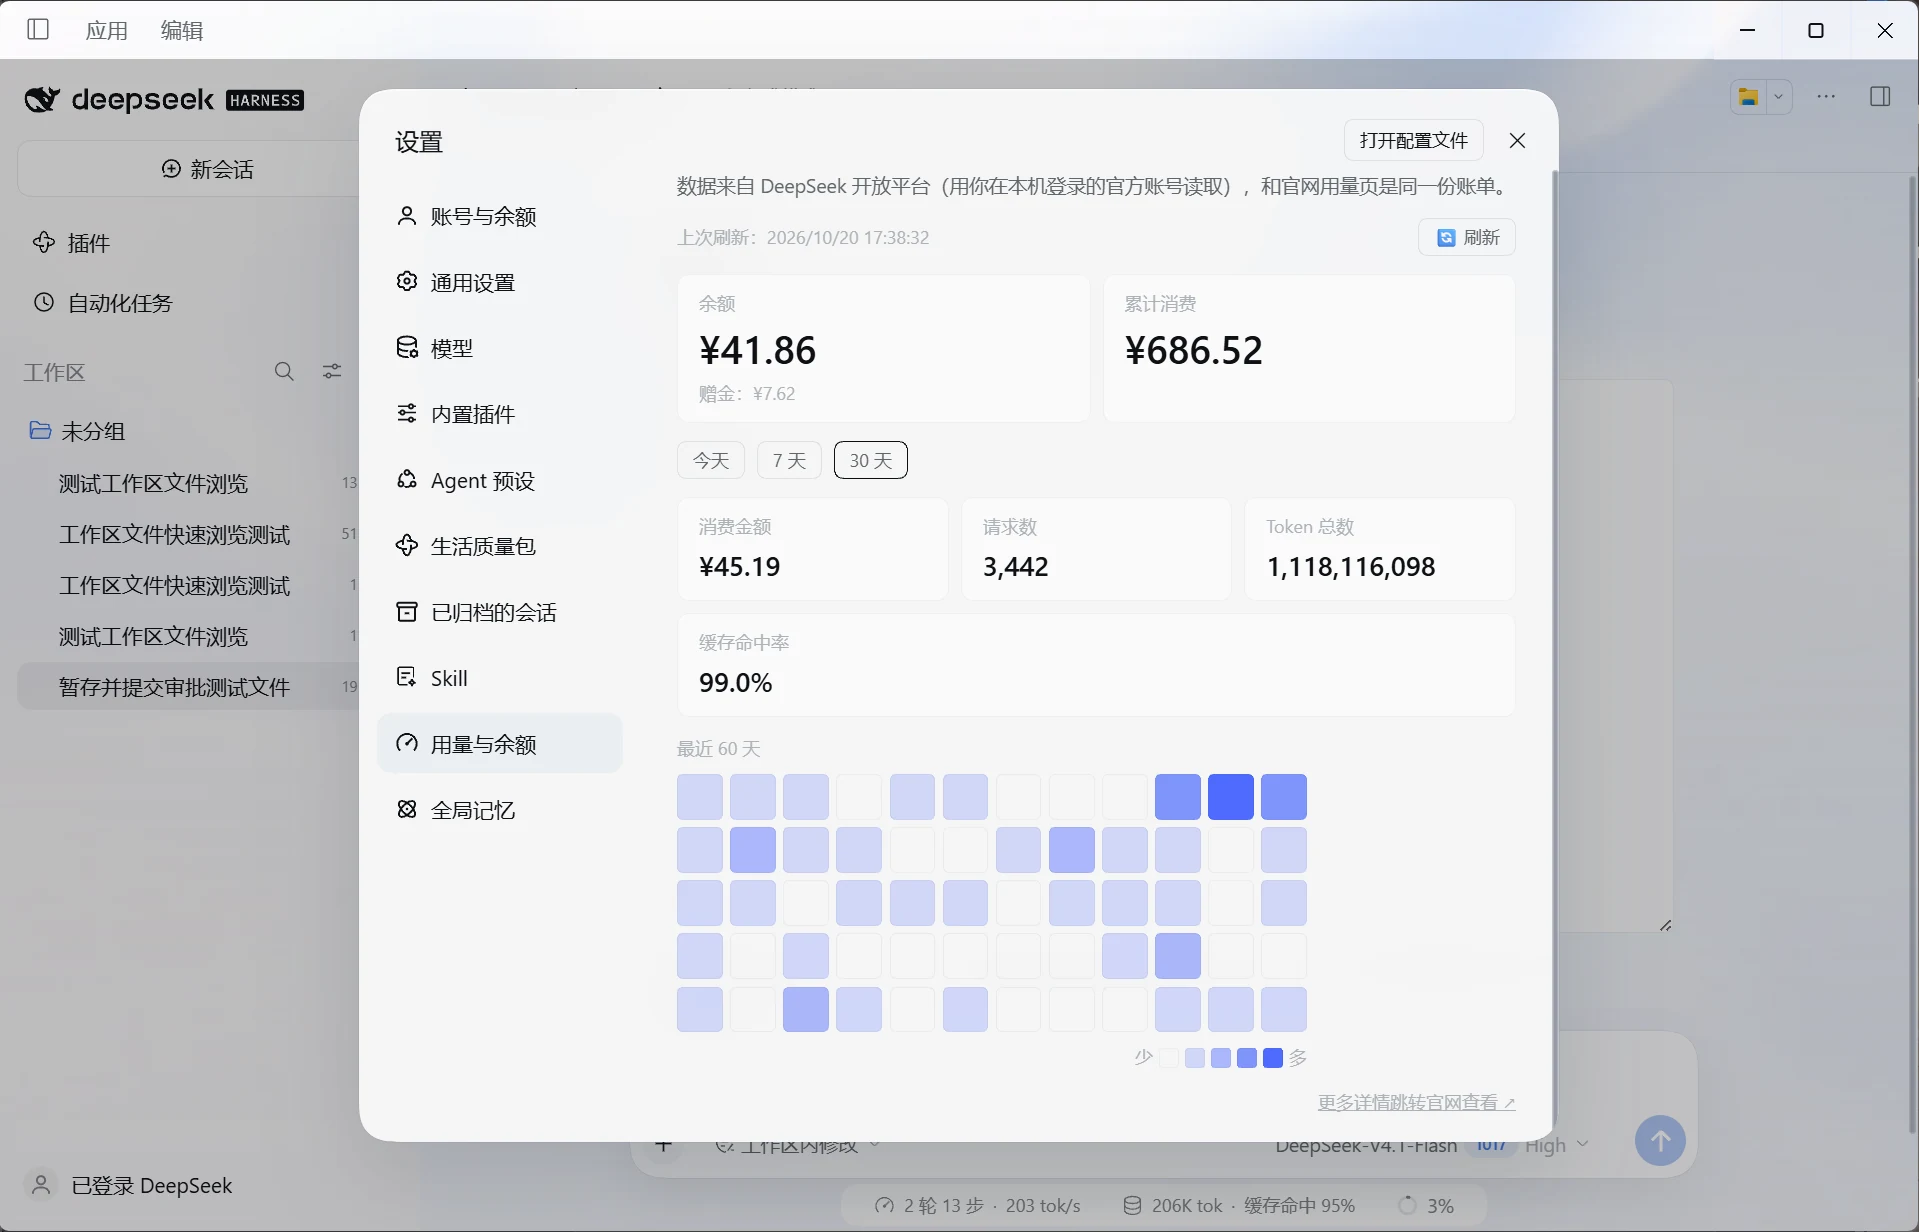
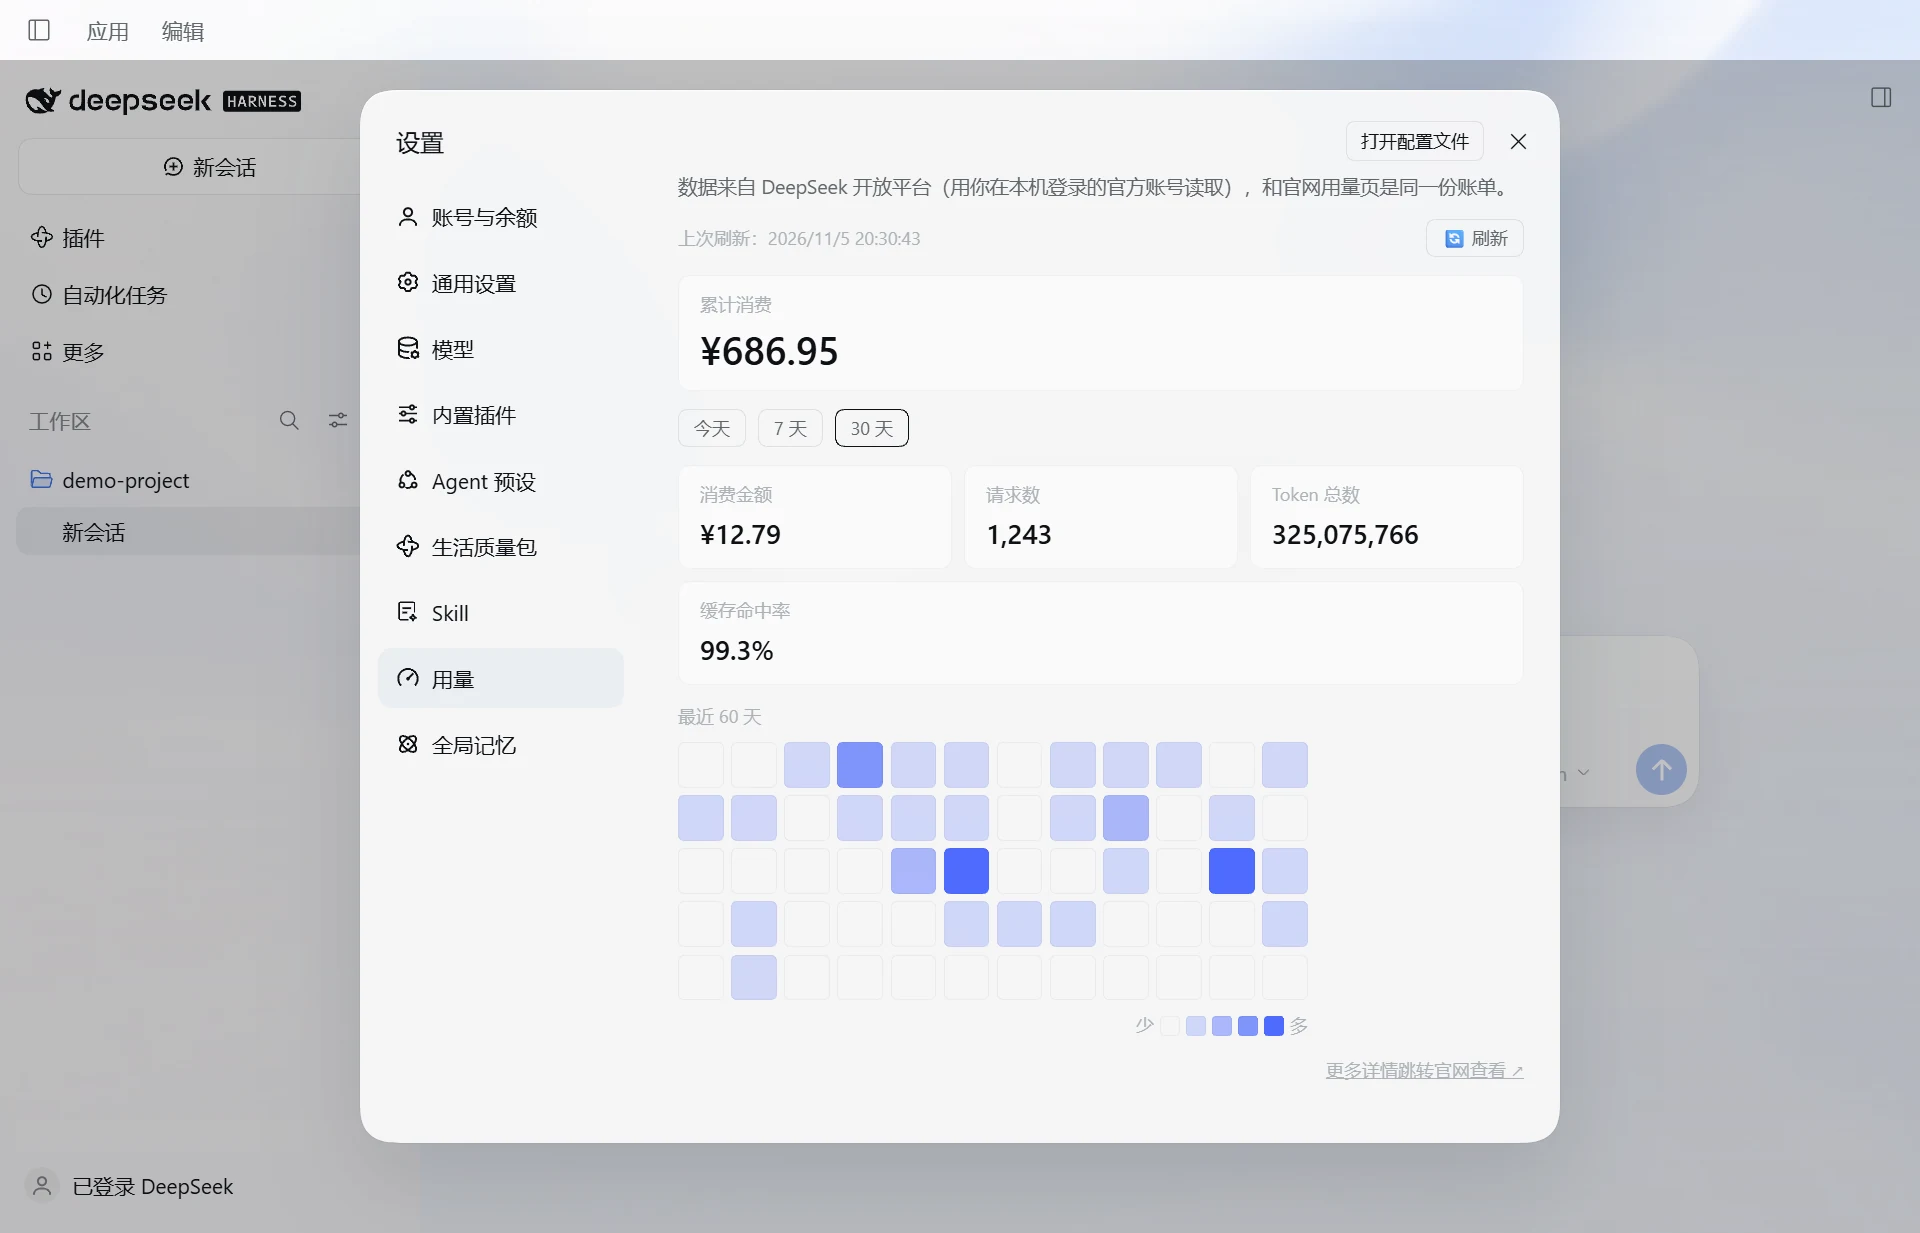
1.1.0：应用内更新，下架与官方重复的功能

diff --git a/lib/client.js b/lib/client.js
@@ -5033,7 +5033,7 @@ function installSettingsIcons(ctx) {
 }
 
 // src/client/update/updater.ts
-var RUNNING_VERSION = "1.0.1";
+var RUNNING_VERSION = "1.1.0";
 var PACKAGE = "@see-sol-lab/dsh-qol";
 var LATEST_URL = "https://api.github.com/repos/See-Sol-Lab/DSH-QoL/releases/latest";
 var RELEASE_PREFIX = "https://github.com/See-Sol-Lab/DSH-QoL/releases/download/";

diff --git a/README.md b/README.md
@@ -7,7 +7,7 @@
 
 <p align="center">
   <a href="LICENSE"><img src="https://img.shields.io/badge/License-MIT-blue?style=flat-square" alt="MIT"></a>
-  <img src="https://img.shields.io/badge/DeepSeek%20Harness-0.2.1-4d6bfe?style=flat-square" alt="DeepSeek Harness 0.2.1">
+  <img src="https://img.shields.io/badge/DeepSeek%20Harness-0.2.2-4d6bfe?style=flat-square" alt="DeepSeek Harness 0.2.2">
   <img src="https://img.shields.io/badge/Platform-Windows-0078d4?style=flat-square" alt="Windows">
   <img src="https://img.shields.io/badge/DSH-Plugin-8b5cf6?style=flat-square" alt="DSH plugin">
   <a href="https://doi.org/10.5281/zenodo.23600993"><img src="https://img.shields.io/badge/DOI-10.5281%2Fzenodo.23600993-4a6fa5?style=flat-square" alt="DOI 10.5281/zenodo.23600993"></a>
@@ -24,7 +24,7 @@
 官方推出自己的桌面端以后，官方桌面端的更新方向、开发理念与 DeepSeekGUI 有不小的分歧，而 DeepSeekGUI 由一个人维护，每次整体合并官方更新、再把自己的改动接回去，工作量越来越大，也越来越难跟上。所以 DeepSeekGUI 调整了方向：
 
 - **不再整体合并官方更新**。DeepSeekGUI 只做基础维护。
-- **把官方还没有的功能做成这个插件**，装进官方桌面端。DeepSeekGUI 的老用户换到官方桌面端、装上生活质量包，就能得到和 DeepSeekGUI 相近的使用体验。GUI的老用户将在rc3合并更新中直接无缝过渡到官方桌面端+QoL质量包。使用体验保持不变。
+- **把官方还没有的功能做成这个插件**，装进官方桌面端。DeepSeekGUI 的老用户换到官方桌面端、装上生活质量包，就能得到和 DeepSeekGUI 相近的使用体验。GUI 的老用户运行[迁移助手](https://github.com/See-Sol-Lab/DeepSeekGUI/releases/latest)，就能一步换到官方桌面端 + 生活质量包。
 - 插件只改官方开放给插件的部分，不改官方代码，所以官方更新以后插件照常可用，维护量小得多。
 
 如果你是第一次接触这个插件，下面的功能介绍会逐项说明它从哪些方面改善了官方桌面端的使用体验。
@@ -128,6 +128,18 @@
 - **应用内更新**：每天最多向 GitHub 查一次新版本（GitHub 会看到你的 IP，可在设置里关掉），有新版本时提示，点一下就下载安装，不用去 GitHub 手动装。下载不走系统代理，靠代理访问 GitHub 的话需要开 TUN 模式。
 - **系统通知**：需要审批、助手在提问、后台工作完成或失败时弹 Windows 系统通知；窗口在前台且正看着那个会话时不打扰，点通知回到那个会话。
 - **看图提示**：每一步告诉助手当前模型能不能看图。换成纯文本模型后，你让它看网页或图片，它会先问你要不要换模型，而不是反复截图又读不到。
+
+## 安装与更新
+
+完全退出官方桌面端（托盘 → 退出）后运行下面的命令，`dsh` 在官方桌面端安装目录的 `resources\runtime\cli\bin\dsh.cmd`：
+
+```bash
+dsh plugin --profile desktop add https://github.com/See-Sol-Lab/DSH-QoL/releases/download/v1.1.0/see-sol-lab-dsh-qol-1.1.0.tgz
+```
+
+1.0.x 没有应用内更新，要用这条命令手动更新一次，以后在「设置 → 生活质量包 → 版本与更新」里点一下就行。
+
+1.1.0 下架了导出 Markdown、「已归档的会话」设置页和余额显示，因为官方已经有了自己的。
 
 ## 开发
 

diff --git a/README.en.md b/README.en.md
@@ -7,7 +7,7 @@
 
 <p align="center">
   <a href="LICENSE"><img src="https://img.shields.io/badge/License-MIT-blue?style=flat-square" alt="MIT"></a>
-  <img src="https://img.shields.io/badge/DeepSeek%20Harness-0.2.1-4d6bfe?style=flat-square" alt="DeepSeek Harness 0.2.1">
+  <img src="https://img.shields.io/badge/DeepSeek%20Harness-0.2.2-4d6bfe?style=flat-square" alt="DeepSeek Harness 0.2.2">
   <img src="https://img.shields.io/badge/Platform-Windows-0078d4?style=flat-square" alt="Windows">
   <img src="https://img.shields.io/badge/DSH-Plugin-8b5cf6?style=flat-square" alt="DSH plugin">
   <a href="https://doi.org/10.5281/zenodo.23600993"><img src="https://img.shields.io/badge/DOI-10.5281%2Fzenodo.23600993-4a6fa5?style=flat-square" alt="DOI 10.5281/zenodo.23600993"></a>
@@ -24,7 +24,7 @@ The plugin grew out of [DeepSeekGUI](https://github.com/See-Sol-Lab/DeepSeekGUI)
 Since the official desktop app arrived, its direction has diverged from DeepSeekGUI's, and merging every official update by hand became more than one maintainer could keep up with. So DeepSeekGUI changed course:
 
 - **No more full merges of official updates.** DeepSeekGUI only receives basic maintenance.
-- **The features the official app doesn't have yet live on in this plugin**, installed into the official desktop app. DeepSeekGUI users who switch to the official app and add the QoL Pack get an experience close to DeepSeekGUI. Existing DeepSeekGUI users will move over to the official desktop app with the QoL Pack seamlessly through the rc.3 update, and their experience stays the same.
+- **The features the official app doesn't have yet live on in this plugin**, installed into the official desktop app. DeepSeekGUI users who switch to the official app and add the QoL Pack get an experience close to DeepSeekGUI. Existing DeepSeekGUI users can run the [migration helper](https://github.com/See-Sol-Lab/DeepSeekGUI/releases/latest) to move over in one go.
 - The plugin only touches what the official app opens to plugins and never patches official code, so it keeps working across official updates.
 
 ## Features
@@ -52,6 +52,18 @@ Since the official desktop app arrived, its direction has diverged from DeepSeek
 The two sandbox switches fix long-standing Windows issues in the official sandbox: workspaces permanently left with a Low integrity label (which breaks Electron, build tools and virtual environments for other tools too), and `SetNamedSecurityInfoW failed (Win32 5)` on every command when the workspace is on a drive other than C:.
 
 The full description of every feature, with screenshots, is in the [Chinese README](README.md). The plugin's interface follows the language of the official app.
+
+## Install and update
+
+Fully quit the official desktop app (tray → Quit), then run the command below. `dsh` is at `resources\runtime\cli\bin\dsh.cmd` in the official app's install folder.
+
+```bash
+dsh plugin --profile desktop add https://github.com/See-Sol-Lab/DSH-QoL/releases/download/v1.1.0/see-sol-lab-dsh-qol-1.1.0.tgz
+```
+
+1.0.x has no in-app updates, so update with this command once. After that, one click under Settings → QoL Pack → Version and updates is enough.
+
+1.1.0 removes Markdown export, the "Archived sessions" settings page and the balance display, because the official app now has its own.
 
 ## License
 
